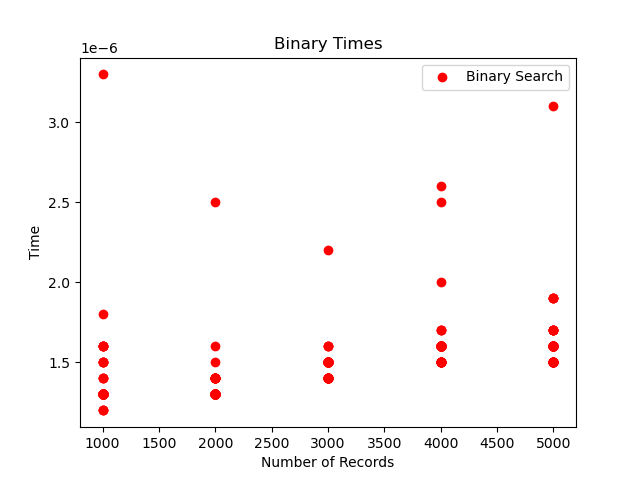
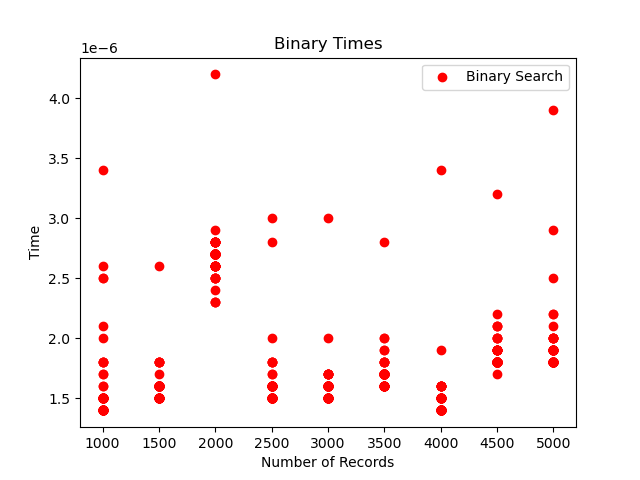
Updates

diff --git a/ex4.2.py b/ex4.2.py
@@ -26,12 +26,12 @@ def linear_search(arr, target):
     return -1  # Return -1 if the target is not in the list
 
 #4
-#Binary is log(n)
-#Linear is n
+#Binary is O(log(n))
+#Linear is O(n)
 
 #5
 
-vectorSizes = [1000,2000,3000,4000,5000]
+vectorSizes = [1000,1500,2000,2500,3000,3500,4000,4500,5000]
 sizes = []
 binaryTimes = []
 linearTimes = []
